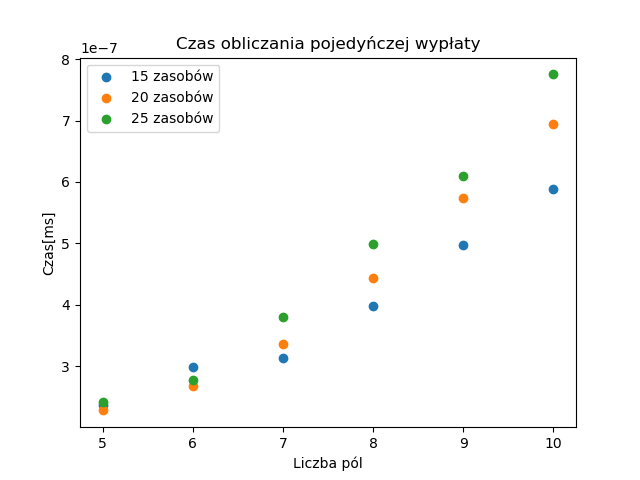
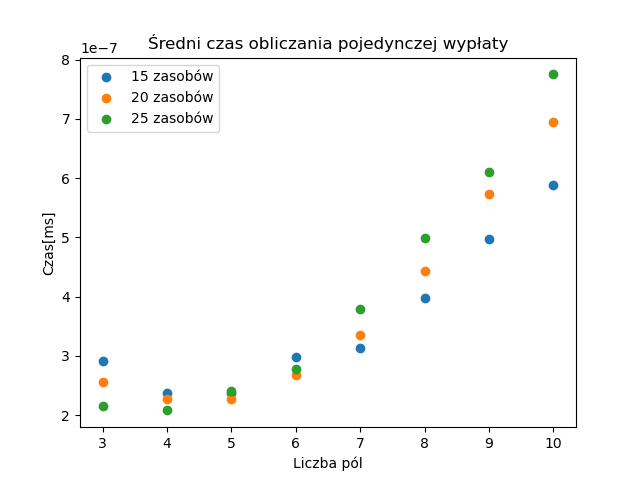
matrix finding times plots added

diff --git a/src/payoff_matrix_finding/plots_generator.py b/src/payoff_matrix_finding/plots_generator.py
@@ -41,7 +41,7 @@ for i in range(0, res_MAX - res_MIN +1, 5):
     # plt.show()
 plt.title("Czas obliczania macierzy wypłat")
 plt.legend()
-plt.savefig("./plots/time(fields)_plt.png")
+# plt.savefig("./plots/time(fields)_plt.png")
 plt.show()
 #%%
 tmp = pd.read_csv("./data/times/time_iter.csv", index_col=0)
@@ -77,14 +77,15 @@ tmp = pd.read_csv("./data/times/cell_time_iter.csv", index_col=0)
 plt.clf()
 for i in range(5, res_MAX - res_MIN +1, 5):
     tmp_label=str(i+res_MIN) + " zasobów"
-    plt.plot(prepare_fields()[4:], list(tmp.iloc[i]/1000)[4:], label=tmp_label)
+    plt.plot(prepare_fields()[:], list(tmp.iloc[i]/1000)[:], label=tmp_label)
     plt.xlabel("Liczba pól")
     plt.ylabel("Czas[ms]")
+    plt.xticks(list(range(3,11)))
     # plt.yscale('log')
     # plt.show()
-plt.title("Czas obliczania pojedyńczej wypłaty")
+plt.title("Średni czas obliczania pojedynczej wypłaty")
 plt.legend()
-# plt.savefig("./plots/single_time(fields).png")
+plt.savefig("./plots/single_time(fields)_plt.png")
 plt.show()
 #%%
 tmp = pd.read_csv("./data/times/cell_time_iter.csv", index_col=0)
@@ -98,7 +99,7 @@ for i in range(2, fields_MAX-fields_MIN+1):
     # plt.ylabel("Czas[ms]")
     # plt.yscale('log')
     # plt.show()
-plt.title("Iloraz czasu obliczania pojedyńczej wypłaty")
+plt.title("Iloraz czasu obliczania pojedynczej wypłaty")
 plt.legend()
 plt.show()
 #%%
@@ -107,15 +108,15 @@ plt.clf()
 for i in range(3, fields_MAX-fields_MIN+1):
     # print(i)
     tmp_label=str(i+fields_MIN) + " pól"
-    plt.scatter(prepare_reses(), list(tmp[tmp.columns[i]]/1000), label=tmp_label)
+    plt.plot(prepare_reses(), list(tmp[tmp.columns[i]]/1000), label=tmp_label)
     plt.xlabel("Liczba zasobów")
     plt.ylabel("Czas[ms]")
     plt.xticks(list(range(10,26,2)))
     # plt.yscale('log')
     # plt.show()
-plt.title("Czas obliczania pojedyńczej wypłaty")
-plt.savefig("./plots/single_time(res).png")
+plt.title("Średni czas obliczania pojedynczej wypłaty")
 plt.legend()
+# plt.savefig("./plots/single_time(res)_plt.png")
 plt.show()
 #%%
 tmp = pd.read_csv("./data/times/time.csv", index_col=0)
@@ -141,7 +142,7 @@ tmp = pd.read_csv("./data/times/cell_time.csv", index_col=0)
 plt.clf()
 for i in range(2):
     tmp_label=str(i+1) + "-krotność zasobów"
-    plt.scatter(list(range(3,ranges[i])), list(tmp.iloc[i]/1000)[0:ends[i]], label=tmp_label)
+    plt.plot(list(range(3,ranges[i])), list(tmp.iloc[i]/1000)[0:ends[i]], label=tmp_label)
     plt.xlabel("Liczba pól")
     plt.ylabel("Czas[ms]")
     # plt.yscale('log')
@@ -149,7 +150,25 @@ for i in range(2):
     # plt.yticks(list(range(0,10,1)))
     # plt.yscale('log')
     # plt.show()
-plt.title("Czas obliczania pojedyńczej wypłaty")
+plt.title("Średni czas obliczania pojedynczej wypłaty")
 plt.legend()
-# plt.savefig("./plots/single_time(fields)_plt.png")
+plt.savefig("./plots/single_time_mul(fields)_plt.png")
+plt.show()
+#%%
+tmp = pd.read_csv("./data/times/time.csv", index_col=0)
+# print(tmp)
+plt.clf()
+for i in range(2):
+    tmp_label=str(i+1) + "-krotność zasobów"
+    plt.plot(list(range(3,ranges[i])), list(tmp.iloc[i])[0:ends[i]], label=tmp_label)
+    plt.xlabel("Liczba pól")
+    plt.ylabel("Czas[s]")
+    # plt.yscale('log')
+    plt.xticks(list(range(3,21,2)))
+    # plt.yticks(list(range(0,10,1)))
+    plt.yscale('log')
+    # plt.show()
+plt.title("Czas obliczania macierzy wypłat")
+plt.legend()
+plt.savefig("./plots/time_mul(fields)_plt.png")
 plt.show()
